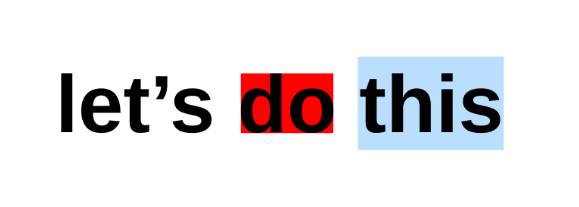
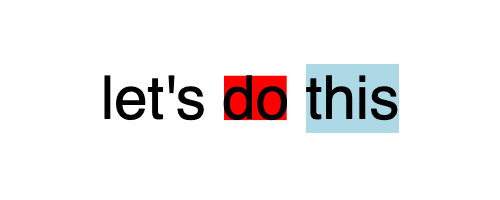
Update image, readability suggestions, and Canary flag

Changed region(s): [[0.09, 0.27, 0.87, 0.75]]

diff --git a/spec/enhanced-textmetrics.md b/spec/enhanced-textmetrics.md
@@ -10,7 +10,7 @@ Extend the capabilities of `TextMetrics` to support selection rectangles and bou
 
 Users should be able to interact with canvas-based text input (like Google Docs, VSCode, Miro) that correctly renders selection and caret positions.
 
-All metrics available through DOM APIs should also be available on `measureText`. Furthermore, `measureText` will always be limited to a single style, and therefore has the potential to be much faster (as it doesn’t need layout). `measureText` must return the same value as the equivalent DOM APIs.
+All metrics available through DOM APIs should also be available on `measureText()`. Furthermore, `measureText()` will always be limited to a single style, and therefore has the potential to be much faster (as it doesn’t need layout). `measureText()` must return the same value as the equivalent DOM APIs.
 
 ## Proposal
 
@@ -23,7 +23,7 @@ All metrics available through DOM APIs should also be available on `measureText`
 };
 ```
 
-Both functions operate in character ranges and return bounding boxes relative to the text’s origin (i.e., textBaseline/textAlign is taken into account).
+Both functions operate in character ranges and return bounding boxes relative to the text’s origin (i.e., `textBaseline`/`textAlign` is taken into account).
 
 `getSelectionRects()` returns the set of rectangles that the UA would render as selection to select a particular character range.
 
@@ -32,20 +32,28 @@ Both functions operate in character ranges and return bounding boxes relative to
 ## Example usage
 
 ```js
-const canvas = document.getElementById('c');
-const ctx = canvas.getContext('2d');
+const canvas = document.querySelector("canvas");
+const ctx = canvas.getContext("2d");
 
-const tm = ctx.measureText("let's do this");
-ctx.fillStyle = 'red';
-const box_for_second_word = tm.getActualBoundingBox(6, 8);
-ctx.fillRect(box_for_second_word.x, box_for_second_word.y,
-        .width, box_for_second_word.height);
-const selection_for_third_word = tm.getSelectionRects(9, 13);
-ctx.fillStyle = 'lightblue';
-for (const s of selection_for_third_word) ctx.fillRect(s.x, s.y, s.width, s.height);
-ctx.fillStyle = 'black';
-ctx.fillText("let's do this");
+const textMetrics = ctx.measureText("let's do this");
+ctx.fillStyle = "red";
+const boxForSecondWord = textMetrics.getActualBoundingBox(6, 7);
+ctx.fillRect(
+    boxForSecondWord.x,
+    boxForSecondWord.y,
+    boxForSecondWord.width,
+    boxForSecondWord.height,
+);
+const selectionForThirdWord = textMetrics.getSelectionRects(9, 12);
+ctx.fillStyle = "lightblue";
+for (const s of selectionForThirdWord) {
+    ctx.fillRect(s.x, s.y, s.width, s.height);
+}
+ctx.fillStyle = "black";
+ctx.fillText("let's do this", 0, 0);
 ```
+
+`getSelectionRects()` can be used on Chrome Canary (starting from version `127.0.6483.0`) by using enabling the feature with `--enable-features=ExtendedTextMetrics` (or the general `--enable-experimental-web-platform-features`).
 
 Expected output:
 
